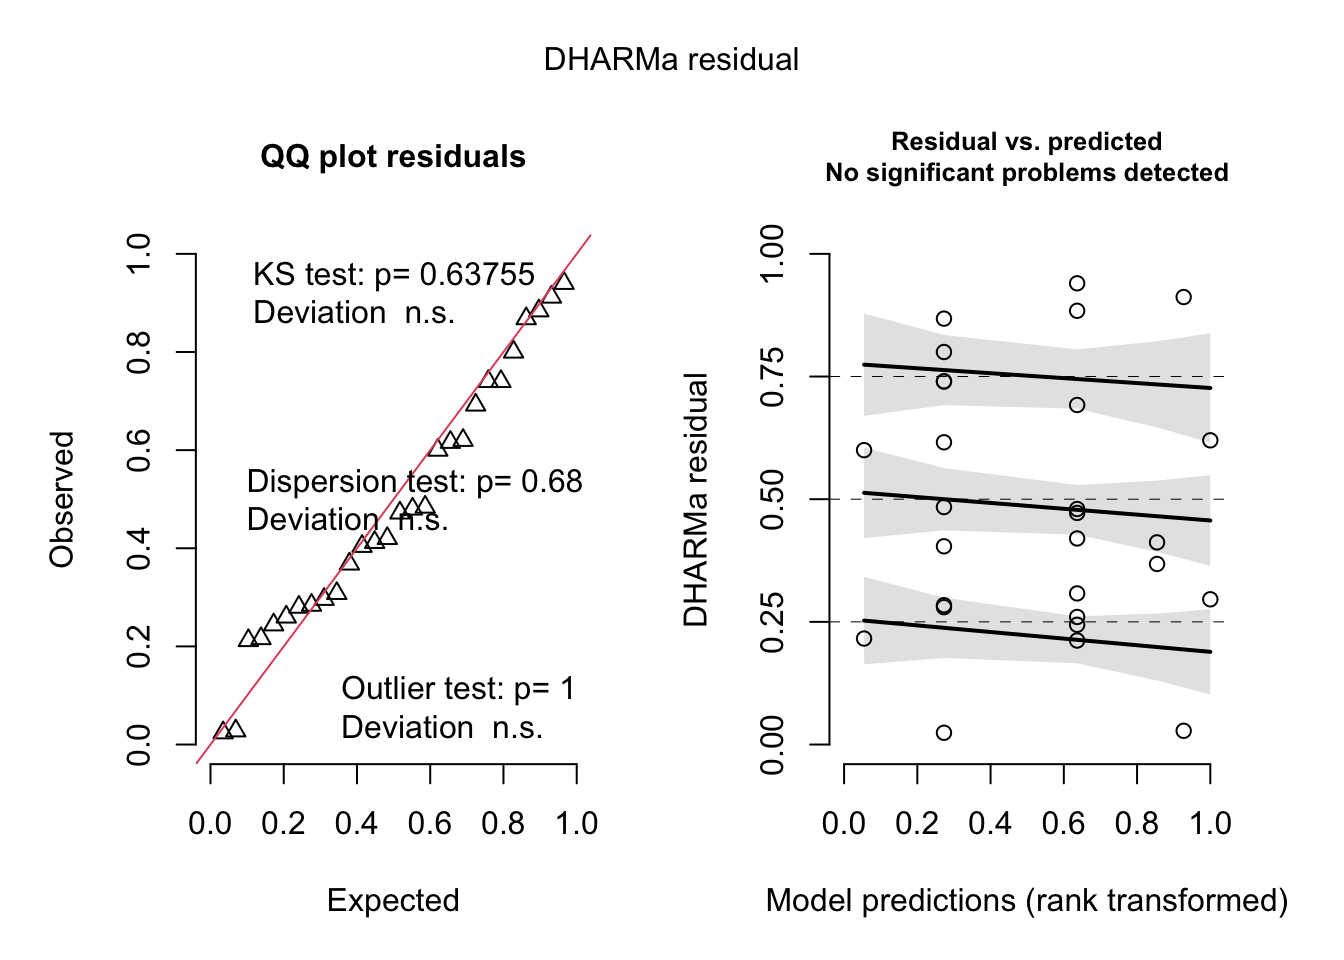
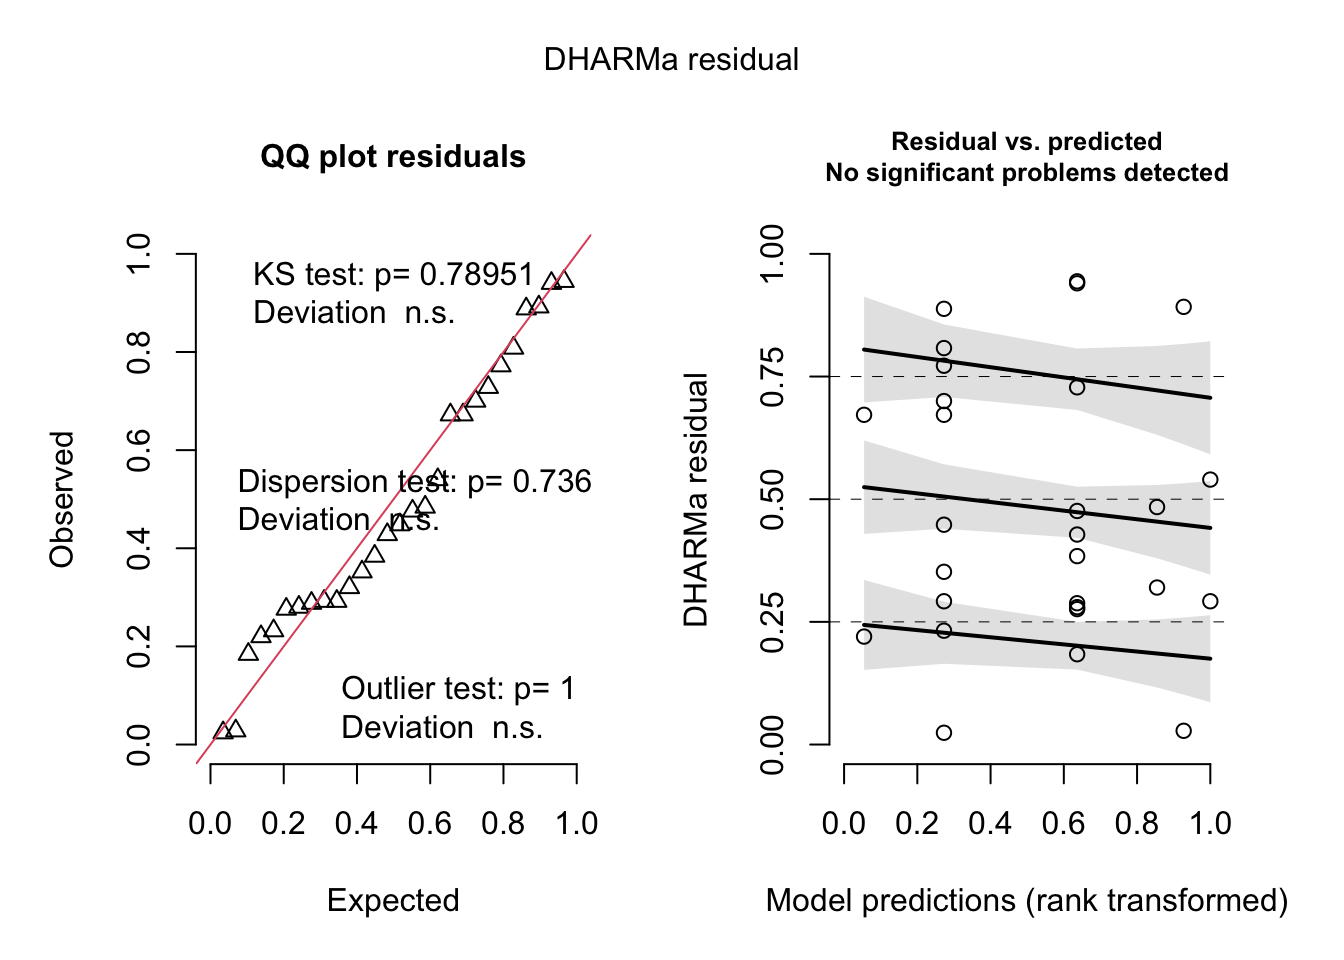
Add back experiment level

diff --git a/index.html b/index.html
@@ -181,48 +181,48 @@ code span.wa { color: #60a0b0; font-weight: bold; font-style: italic; } /* Warni
 </div>
 </div>
 <div class="cell">
-<div class="sourceCode cell-code" id="cb5"><pre class="sourceCode r code-with-copy"><code class="sourceCode r"><span id="cb5-1"><a href="#cb5-1" aria-hidden="true" tabindex="-1"></a>df.ms4a4a <span class="ot">=</span> df <span class="sc">%&gt;%</span></span>
-<span id="cb5-2"><a href="#cb5-2" aria-hidden="true" tabindex="-1"></a>  <span class="fu">filter</span>(gene <span class="sc">==</span> <span class="st">"MS4A4A"</span>)</span>
-<span id="cb5-3"><a href="#cb5-3" aria-hidden="true" tabindex="-1"></a></span>
-<span id="cb5-4"><a href="#cb5-4" aria-hidden="true" tabindex="-1"></a>fit.ms4a4a <span class="ot">=</span> <span class="fu">lmer</span>(d_ct <span class="sc">~</span> <span class="dv">1</span> <span class="sc">+</span> genotype<span class="sc">*</span>treatment <span class="sc">+</span> (<span class="dv">1</span> <span class="sc">|</span> line), <span class="at">data =</span> df.ms4a4a)</span>
-<span id="cb5-5"><a href="#cb5-5" aria-hidden="true" tabindex="-1"></a></span>
-<span id="cb5-6"><a href="#cb5-6" aria-hidden="true" tabindex="-1"></a><span class="fu">summary</span>(fit.ms4a4a)</span></code><button title="Copy to Clipboard" class="code-copy-button"><i class="bi"></i></button></pre></div>
+<div class="sourceCode cell-code" id="cb5"><pre class="sourceCode r code-with-copy"><code class="sourceCode r"><span id="cb5-1"><a href="#cb5-1" aria-hidden="true" tabindex="-1"></a>df.ms4a4a <span class="ot">=</span> df <span class="sc">%&gt;%</span> <span class="fu">filter</span>(gene <span class="sc">==</span> <span class="st">"MS4A4A"</span>)</span>
+<span id="cb5-2"><a href="#cb5-2" aria-hidden="true" tabindex="-1"></a></span>
+<span id="cb5-3"><a href="#cb5-3" aria-hidden="true" tabindex="-1"></a>fit.ms4a4a <span class="ot">=</span> <span class="fu">lmer</span>(d_ct <span class="sc">~</span> <span class="dv">1</span> <span class="sc">+</span> genotype<span class="sc">*</span>treatment <span class="sc">+</span> (<span class="dv">1</span> <span class="sc">|</span> line<span class="sc">/</span>experiment), <span class="at">data =</span> df.ms4a4a)</span>
+<span id="cb5-4"><a href="#cb5-4" aria-hidden="true" tabindex="-1"></a></span>
+<span id="cb5-5"><a href="#cb5-5" aria-hidden="true" tabindex="-1"></a><span class="fu">summary</span>(fit.ms4a4a)</span></code><button title="Copy to Clipboard" class="code-copy-button"><i class="bi"></i></button></pre></div>
 <div class="cell-output cell-output-stdout">
 <pre><code>Linear mixed model fit by REML. t-tests use Satterthwaite's method [
 lmerModLmerTest]
-Formula: d_ct ~ 1 + genotype * treatment + (1 | line)
+Formula: d_ct ~ 1 + genotype * treatment + (1 | line/experiment)
    Data: df.ms4a4a
 
 REML criterion at convergence: 35.7
 
 Scaled residuals: 
    Min     1Q Median     3Q    Max 
--1.843 -0.391 -0.117  0.484  1.766 
+-1.838 -0.390 -0.118  0.481  1.756 
 
 Random effects:
- Groups   Name        Variance Std.Dev.
- line     (Intercept) 0.053    0.230   
- Residual             0.200    0.448   
-Number of obs: 28, groups:  line, 2
+ Groups          Name        Variance Std.Dev.
+ experiment:line (Intercept) 0.0011   0.0332  
+ line            (Intercept) 0.0528   0.2298  
+ Residual                    0.1993   0.4464  
+Number of obs: 28, groups:  experiment:line, 10; line, 2
 
 Fixed effects:
                          Estimate Std. Error     df t value  Pr(&gt;|t|)    
-(Intercept)                -1.543      0.216  1.619   -7.15    0.0325 *  
-genotypeTT                 -0.606      0.200 21.000   -3.03    0.0064 ** 
-treatmentIFNg               2.280      0.357 21.715    6.39 0.0000021 ***
-treatmentLPS                0.859      0.357 21.715    2.41    0.0251 *  
-genotypeTT:treatmentIFNg   -1.061      0.490 21.000   -2.16    0.0422 *  
-genotypeTT:treatmentLPS    -1.205      0.490 21.000   -2.46    0.0228 *  
+(Intercept)                -1.543      0.216  1.614   -7.16    0.0326 *  
+genotypeTT                 -0.606      0.200 16.813   -3.04    0.0075 ** 
+treatmentIFNg               2.279      0.357 20.460    6.39 0.0000028 ***
+treatmentLPS                0.858      0.357 20.460    2.40    0.0258 *  
+genotypeTT:treatmentIFNg   -1.061      0.489 16.813   -2.17    0.0447 *  
+genotypeTT:treatmentLPS    -1.205      0.489 16.813   -2.46    0.0249 *  
 ---
 Signif. codes:  0 '***' 0.001 '**' 0.01 '*' 0.05 '.' 0.1 ' ' 1
 
 Correlation of Fixed Effects:
             (Intr) gntyTT trtIFN trtLPS gTT:IF
-genotypeTT  -0.464                            
-tretmntIFNg -0.260  0.280                     
-treatmntLPS -0.260  0.280  0.214              
-gntypTT:IFN  0.189 -0.408 -0.687 -0.114       
-gntypTT:LPS  0.189 -0.408 -0.114 -0.687  0.167</code></pre>
+genotypeTT  -0.463                            
+tretmntIFNg -0.259  0.280                     
+treatmntLPS -0.259  0.280  0.216              
+gntypTT:IFN  0.189 -0.408 -0.686 -0.114       
+gntypTT:LPS  0.189 -0.408 -0.114 -0.686  0.167</code></pre>
 </div>
 </div>
 <div class="cell">
@@ -237,34 +237,34 @@ gntypTT:LPS  0.189 -0.408 -0.114 -0.687  0.167</code></pre>
 <pre><code>$emmeans
 treatment = Basal:
  genotype emmean    SE   df lower.CL upper.CL
- CC       -1.543 0.216 1.62   -2.716  -0.3706
- TT       -2.149 0.216 1.62   -3.322  -0.9770
+ CC       -1.543 0.215 1.61   -2.720   -0.366
+ TT       -2.149 0.215 1.61   -3.327   -0.972
 
 treatment = IFNg:
  genotype emmean    SE   df lower.CL upper.CL
- CC        0.737 0.381 9.12   -0.124   1.5979
- TT       -0.930 0.381 9.12   -1.791  -0.0694
+ CC        0.736 0.395 9.02   -0.158    1.629
+ TT       -0.932 0.395 9.02   -1.826   -0.038
 
 treatment = LPS:
  genotype emmean    SE   df lower.CL upper.CL
- CC       -0.684 0.381 9.12   -1.545   0.1769
- TT       -2.495 0.381 9.12   -3.356  -1.6341
+ CC       -0.685 0.395 9.02   -1.579    0.208
+ TT       -2.497 0.395 9.02   -3.390   -1.603
 
 Degrees-of-freedom method: kenward-roger 
 Confidence level used: 0.95 
 
 $contrasts
 treatment = Basal:
- contrast estimate    SE df t.ratio p.value
- CC - TT     0.606 0.200 21   3.029  0.0064
+ contrast estimate    SE   df t.ratio p.value
+ CC - TT     0.606 0.200 14.7   3.037  0.0085
 
 treatment = IFNg:
- contrast estimate    SE df t.ratio p.value
- CC - TT     1.667 0.448 21   3.725  0.0013
+ contrast estimate    SE   df t.ratio p.value
+ CC - TT     1.667 0.446 14.7   3.734  0.0021
 
 treatment = LPS:
- contrast estimate    SE df t.ratio p.value
- CC - TT     1.811 0.448 21   4.046  0.0006
+ contrast estimate    SE   df t.ratio p.value
+ CC - TT     1.811 0.446 14.7   4.056  0.0011
 
 Degrees-of-freedom method: kenward-roger </code></pre>
 </div>
@@ -280,7 +280,7 @@ Degrees-of-freedom method: kenward-roger </code></pre>
 
 <div data-pagedtable="false">
   <script data-pagedtable-source="" type="application/json">
-{"columns":[{"label":["contrast"],"name":[1],"type":["chr"],"align":["left"]},{"label":["treatment"],"name":[2],"type":["fct"],"align":["left"]},{"label":["estimate"],"name":[3],"type":["dbl"],"align":["right"]},{"label":["SE"],"name":[4],"type":["dbl"],"align":["right"]},{"label":["df"],"name":[5],"type":["dbl"],"align":["right"]},{"label":["lower.CL"],"name":[6],"type":["dbl"],"align":["right"]},{"label":["upper.CL"],"name":[7],"type":["dbl"],"align":["right"]}],"data":[{"1":"TT - CC","2":"Basal","3":"1.522","4":"1.149","5":"21","6":"1.141","7":"2.032"},{"1":"TT - CC","2":"IFNg","3":"3.176","4":"1.364","5":"21","6":"1.666","7":"6.055"},{"1":"TT - CC","2":"LPS","3":"3.509","4":"1.364","5":"21","6":"1.841","7":"6.689"}],"options":{"columns":{"min":{},"max":[10]},"rows":{"min":[10],"max":[10]},"pages":{}}}
+{"columns":[{"label":["contrast"],"name":[1],"type":["chr"],"align":["left"]},{"label":["treatment"],"name":[2],"type":["fct"],"align":["left"]},{"label":["estimate"],"name":[3],"type":["dbl"],"align":["right"]},{"label":["SE"],"name":[4],"type":["dbl"],"align":["right"]},{"label":["df"],"name":[5],"type":["dbl"],"align":["right"]},{"label":["lower.CL"],"name":[6],"type":["dbl"],"align":["right"]},{"label":["upper.CL"],"name":[7],"type":["dbl"],"align":["right"]}],"data":[{"1":"TT - CC","2":"Basal","3":"1.522","4":"1.148","5":"14.68","6":"1.133","7":"2.046"},{"1":"TT - CC","2":"IFNg","3":"3.176","4":"1.363","5":"14.68","6":"1.640","7":"6.150"},{"1":"TT - CC","2":"LPS","3":"3.509","4":"1.363","5":"14.68","6":"1.812","7":"6.795"}],"options":{"columns":{"min":{},"max":[10]},"rows":{"min":[10],"max":[10]},"pages":{}}}
   </script>
 </div>
 </div>
@@ -296,7 +296,7 @@ Degrees-of-freedom method: kenward-roger </code></pre>
 
 <div data-pagedtable="false">
   <script data-pagedtable-source="" type="application/json">
-{"columns":[{"label":["contrast"],"name":[1],"type":["chr"],"align":["left"]},{"label":["treatment"],"name":[2],"type":["fct"],"align":["left"]},{"label":["estimate"],"name":[3],"type":["dbl"],"align":["right"]},{"label":["SE"],"name":[4],"type":["dbl"],"align":["right"]},{"label":["df"],"name":[5],"type":["dbl"],"align":["right"]},{"label":["lower.CL"],"name":[6],"type":["dbl"],"align":["right"]},{"label":["upper.CL"],"name":[7],"type":["dbl"],"align":["right"]},{"label":["p.value"],"name":[8],"type":["dbl"],"align":["right"]}],"data":[{"1":"TT - CC","2":"Basal","3":"1.522","4":"1.149","5":"21","6":"1.141","7":"2.032","8":"0.0063832"},{"1":"TT - CC","2":"IFNg","3":"3.176","4":"1.364","5":"21","6":"1.666","7":"6.055","8":"0.0012525"},{"1":"TT - CC","2":"LPS","3":"3.509","4":"1.364","5":"21","6":"1.841","7":"6.689","8":"0.0005824"}],"options":{"columns":{"min":{},"max":[10]},"rows":{"min":[10],"max":[10]},"pages":{}}}
+{"columns":[{"label":["contrast"],"name":[1],"type":["chr"],"align":["left"]},{"label":["treatment"],"name":[2],"type":["fct"],"align":["left"]},{"label":["estimate"],"name":[3],"type":["dbl"],"align":["right"]},{"label":["SE"],"name":[4],"type":["dbl"],"align":["right"]},{"label":["df"],"name":[5],"type":["dbl"],"align":["right"]},{"label":["lower.CL"],"name":[6],"type":["dbl"],"align":["right"]},{"label":["upper.CL"],"name":[7],"type":["dbl"],"align":["right"]},{"label":["p.value"],"name":[8],"type":["dbl"],"align":["right"]}],"data":[{"1":"TT - CC","2":"Basal","3":"1.522","4":"1.148","5":"14.68","6":"1.133","7":"2.046","8":"0.008489"},{"1":"TT - CC","2":"IFNg","3":"3.176","4":"1.363","5":"14.68","6":"1.640","7":"6.150","8":"0.002061"},{"1":"TT - CC","2":"LPS","3":"3.509","4":"1.363","5":"14.68","6":"1.812","7":"6.795","8":"0.001077"}],"options":{"columns":{"min":{},"max":[10]},"rows":{"min":[10],"max":[10]},"pages":{}}}
   </script>
 </div>
 </div>
